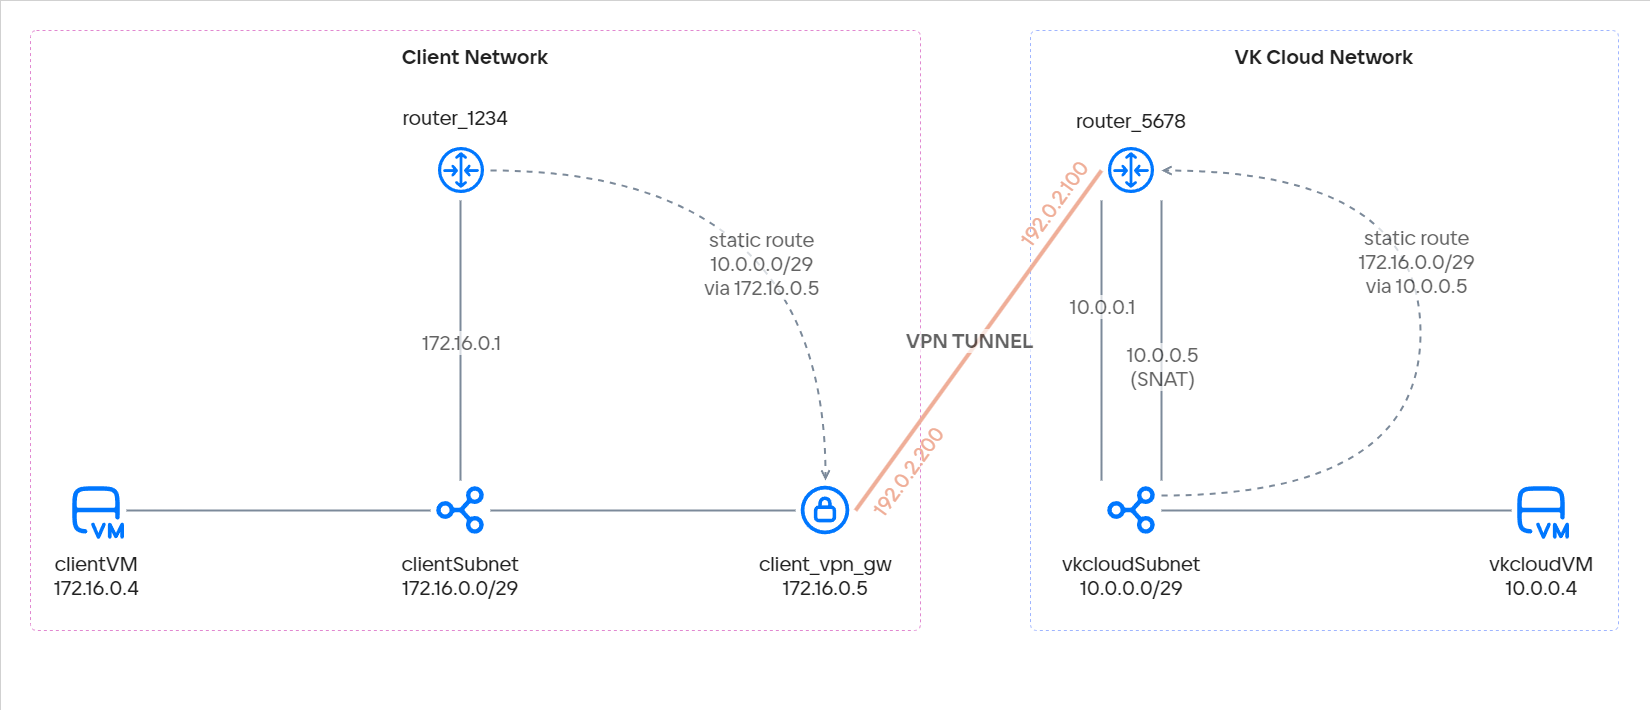
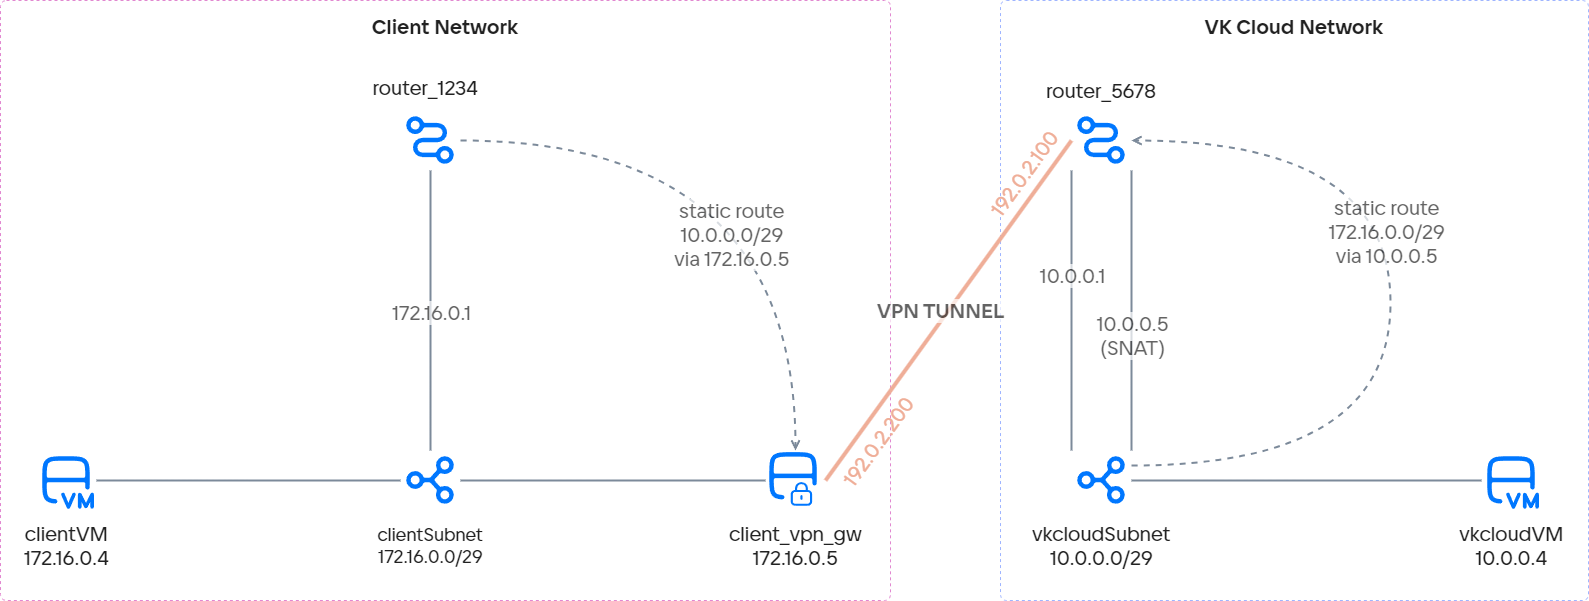
VKCSDOCS-1696: Схемы без рамок

diff --git a/docs/ru/cases/cases-logs/case-swarm/case-swarm.md b/docs/ru/cases/cases-logs/case-swarm/case-swarm.md
@@ -13,11 +13,11 @@
 
 ## Схема работы
 
-![Scheme of work](assets/1575015458286-1575015458286.png){params[width=74%; height=74%]}
+![Scheme of work](assets/1575015458286-1575015458286.png){params[width=74%; height=74%; noBorder=true]}
 
 **Docker Swarm** - это Docker в кластерном режиме. Кластер может состоять из одной ноды или нескольких нод. Для данного сценария достаточно одной ноды.
 
-**Fluentd** - это программный комплекс, отвечающий за сбор, трансформацию логов и их передачу для хранения. Схожие функции имеет Logstash - стандартный компонент стека ELK. Однако Fluentd обладает более широкими возможностями по передаче логов для хранения (заявлено [более 40 data outputs](https://www.fluentd.org/dataoutputs)), а также более высокой скоростью работы и малой требовательностью к ресурсам (при потреблении оперативной памяти около 40 мегабайт обрабатывается 13 000 строк в секунду). В настоящий момент Fluentd используют и поддерживают такие крупные компании, как Atlassian, Microsoft и Amazon. Частью проекта Fluentd является Fluent-bit - легковесный коллектор/трансформатор логов (подробно [читай тут](https://logz.io/blog/fluentd-vs-fluent-bit/)). Кроме того, Fluentd наравне с такими проектами как Kubernetes и Prometheus (подробно [читай тут](https://www.cncf.io/projects/))) поддерживается компанией CNCF (Cloud Native Computing Foundation).
+**Fluentd** - это программный комплекс, отвечающий за сбор, трансформацию логов и их передачу для хранения. Схожие функции имеет Logstash - стандартный компонент стека ELK. Однако Fluentd обладает более широкими возможностями по передаче логов для хранения (заявлено [более 40 data outputs](https://www.fluentd.org/dataoutputs)), а также более высокой скоростью работы и малой требовательностью к ресурсам (при потреблении оперативной памяти около 40 мегабайт обрабатывается 13 000 строк в секунду). В настоящий момент Fluentd используют и поддерживают такие крупные компании, как Atlassian, Microsoft и Amazon. Частью проекта Fluentd является Fluent-bit - легковесный коллектор/трансформатор логов (подробно [читай тут](https://logz.io/blog/fluentd-vs-fluent-bit/)). Кроме того, Fluentd наравне с такими проектами как Kubernetes и Prometheus (подробно [читай тут](https://www.cncf.io/projects/)) поддерживается компанией CNCF (Cloud Native Computing Foundation).
 
 Для выполнения сценария:
 

diff --git a/docs/ru/networks/vnet/concepts/sdn/sdn.md b/docs/ru/networks/vnet/concepts/sdn/sdn.md
@@ -24,7 +24,7 @@ SDN — инструмент управления overlay-сетями (вирт
 - Управление IP-адресами в проекте.
 - Настройка правил маршрутизации.
 
-![SDN в ахритектуре VK Cloud](./assets/img_sdn_basis.png)
+![SDN в ахритектуре VK Cloud](./assets/img_sdn_basis.png){params[noBorder=true]}
 
 Все сервисы и продукты в архитектуре облака связаны с SDN, поэтому для платформы важно иметь надежное, гибкое и отказоустойчивое SDN-решение.
 
@@ -53,7 +53,7 @@ _Neutron_ — SDN, которая является частью платформ
 
 На схеме предоставлена архитектура и схема работы SDN Neutron.
 
-![Архитектура SDN Neutron](./assets/neutron_arch.png)
+![Архитектура SDN Neutron](./assets/neutron_arch.png){params[noBorder=true]}
 
 Долгое время в VK Cloud использовалась только SDN Neutron, это создавало следующие проблемы и ограничения:
 
@@ -82,7 +82,7 @@ SDN Sprut обеспечивает стабильную работу сетей 
 
 На схеме представлено сравнение архитектуры SDN Neutron и SDN Sprut.
 
-![Архитектура SDN Neutron и SDN Sprut](./assets/neutron_vs_sprut.png)
+![Архитектура SDN Neutron и SDN Sprut](./assets/neutron_vs_sprut.png){params[noBorder=true]}
 
 <info>
 

diff --git a/docs/ru/networks/directconnect/how-to-guides/advanced-router/advanced-router.md b/docs/ru/networks/directconnect/how-to-guides/advanced-router/advanced-router.md
@@ -59,7 +59,7 @@
 
 Схема предварительной подготовки сетей выглядит следующим образом:
 
-![Схема предварительной подготовки сетей](/ru/networks/directconnect/how-to-guides/advanced-router/assets/advanced-router-before.png)
+![Схема предварительной подготовки сетей](/ru/networks/directconnect/how-to-guides/advanced-router/assets/advanced-router-before.png){params[noBorder=true]}
 
 ## 1. Добавьте продвинутый маршрутизатор
 
@@ -312,7 +312,7 @@ IP-адрес должен отвечать на пинг.
 
 Схема выстроенного взаимодействия между сетями и машинами внутри сетей выглядит следующим образом:
 
-![Схема взаимодействия между сетями](/ru/networks/directconnect/how-to-guides/advanced-router/assets/advanced-router-after.png)
+![Схема взаимодействия между сетями](/ru/networks/directconnect/how-to-guides/advanced-router/assets/advanced-router-after.png){params[noBorder=true]}
 
 ## Удалите неиспользуемые ресурсы
 

diff --git a/docs/en/networks/directconnect/how-to-guides/advanced-router/advanced-router.md b/docs/en/networks/directconnect/how-to-guides/advanced-router/advanced-router.md
@@ -59,7 +59,7 @@ In this case the following data is used:
 
 The scheme for preparation of networks looks like this:
 
-![Scheme for preparation of networks](/en/networks/directconnect/how-to-guides/advanced-router/assets/advanced-router-before.png)
+![Scheme for preparation of networks](/en/networks/directconnect/how-to-guides/advanced-router/assets/advanced-router-before.png){params[noBorder=true]}
 
 ## 1. Creating an advanced router
 
@@ -303,7 +303,7 @@ The IP address must respond to ping.
 
 The structured interaction between the networks and the VMs within networks looks like this:
 
-![The interaction between networks scheme](/en/networks/directconnect/how-to-guides/advanced-router/assets/advanced-router-after.png)
+![The interaction between networks scheme](/en/networks/directconnect/how-to-guides/advanced-router/assets/advanced-router-after.png){params[noBorder=true]}
 
 ## Delete unused resources
 

diff --git a/docs/ru/computing/cloud-desktops/how-to-guides/ipsec/ipsec.md b/docs/ru/computing/cloud-desktops/how-to-guides/ipsec/ipsec.md
@@ -80,7 +80,7 @@
 
 Схема предварительной подготовки сетей:
 
-![Схема предварительной подготовки сетей](assets/IPsec_scheme-Before.png)
+![Схема предварительной подготовки сетей](assets/IPsec_scheme-Before.png){params[noBorder=true]}
 
 ## 1. Настройте VPN-туннель на стороне AD/LDAP
 
@@ -450,7 +450,7 @@
 
 Схема выстроенного взаимодействия между сетями и машинами внутри сетей:
 
-![Схема взаимодействия между сетями](assets/IPsec_scheme-After.png)
+![Схема взаимодействия между сетями](assets/IPsec_scheme-After.png){params[noBorder=true]}
 
 ## Удалите неиспользуемые ресурсы
 

diff --git a/docs/ru/dbs/dbaas/concepts/architecture/architecture.md b/docs/ru/dbs/dbaas/concepts/architecture/architecture.md
@@ -2,7 +2,7 @@
 
 Архитектура сервиса Cloud Databases (база данных как сервис) в упрощенном виде:
 
-![](./assets/1604479588232-1604479588231.png)
+![Архитектура Cloud Databases](./assets/1604479588232-1604479588231.png){params[noBorder=true]}
 
 В панели управления VK Cloud разворачивается виртуальная машина или кластер с предустановленными средствами управления базой данных. При создании виртуальной машины или кластера можно выбрать, создавать ли реплику (для конфигурации **Master-Slave**), или количество узлов (для конфигурации **Кластер**).
 

diff --git a/docs/en/computing/cloud-desktops/how-to-guides/ipsec/ipsec.md b/docs/en/computing/cloud-desktops/how-to-guides/ipsec/ipsec.md
@@ -80,7 +80,7 @@ To show how to configure a secure connection with virtual desktops:
 
 Scheme of preliminary preparation of networks:
 
-![Scheme of preliminary preparation of networks](assets/IPsec_scheme-Before.png)
+![Scheme of preliminary preparation of networks](assets/IPsec_scheme-Before.png){params[noBorder=true]}
 
 ## 1. Set up a VPN tunnel on the AD/LDAP side
 
@@ -450,7 +450,7 @@ To ensure traffic passes correctly through the VPN tunnel, add a number of setti
 
 Scheme of the built interaction between networks and machines within networks:
 
-![Scheme of the built interaction between networks and machines within networks:](assets/IPsec_scheme-After.png)
+![Scheme of the built interaction between networks and machines within networks:](assets/IPsec_scheme-After.png){params[noBorder=true]}
 
 ## Delete unused resources
 

diff --git a/docs/ru/networks/vnet/how-to-guides/vip-keepalived/vip-keepalived.md b/docs/ru/networks/vnet/how-to-guides/vip-keepalived/vip-keepalived.md
@@ -8,7 +8,7 @@
   - будет настроен VRRP в реализации [keepalived](https://keepalived.readthedocs.io/en/latest/introduction.html) для обслуживания этого IP-адреса.
 - будет создана третья виртуальная машина с плавающим IP-адресом, с которой будут выполнены все необходимые настройки и проверка работоспособности.
 
-![Диаграмма для сценария](./assets/vip-keepalived.png)
+![Диаграмма для сценария](./assets/vip-keepalived.png){params[noBorder=true]}
 
 ## 1. Подготовительные шаги
 

diff --git a/docs/en/dbs/dbaas/extensions/node-exporter/node-exporter.md b/docs/en/dbs/dbaas/extensions/node-exporter/node-exporter.md
@@ -26,6 +26,4 @@ Exporters - процессы, обеспечивающие сбор и их пе
 
 ## Установка расширения
 
-Установить расширения довольно просто. Для этого на карточке виртуальной машины на закладке "Расширения" нажмите кнопку **Добавить**:
-
-![](./assets/1604483451702-1604483451702.png)
+Установить расширения довольно просто. Для этого на карточке виртуальной машины на закладке "Расширения" нажмите кнопку **Добавить**.

diff --git a/docs/ru/cases/cases-logs/case-fluentd/case-fluentd.md b/docs/ru/cases/cases-logs/case-fluentd/case-fluentd.md
@@ -35,7 +35,7 @@ kubectl logs pod_name --previous
 
 ## Схема системы логирования в кластере Kubernetes:
 
-![The scheme of the logging system in the Kubernetes cluster](assets/1579529210340-1579529210340.png){params[width=70%; height=70%]}
+![The scheme of the logging system in the Kubernetes cluster](assets/1579529210340-1579529210340.png){params[width=70%; height=70%; noBorder=true]}
 
 В зависимости от количества информации, необходимой в обработке Elasticsearch, можно выбрать различные пути инсталляции EFK-стека:
 

diff --git a/docs/ru/intro/start/concepts/architecture/architecture.md b/docs/ru/intro/start/concepts/architecture/architecture.md
@@ -56,7 +56,7 @@ VK Cloud предоставляет [техническую поддержку](
 
 Общая схема компонентов и сервисов VK Cloud показана ниже.
 
-![](assets/vkcloud_architecture.png)
+![Архитектура VK Cloud](assets/vkcloud_architecture.png){params[noBorder=true]}
 
 Управление облачными сервисами выполняется с помощью API. Пользователи взаимодействуют с API через один или несколько [инструментов](/ru/tools-for-using-services):
 
